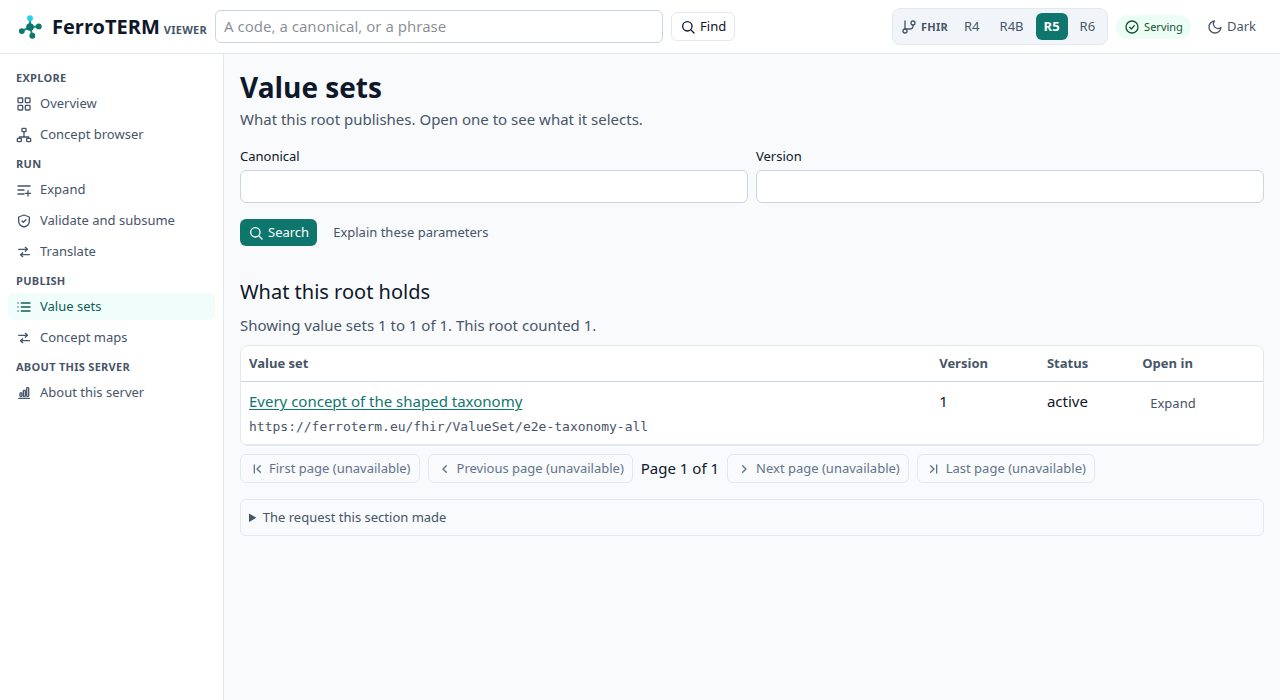
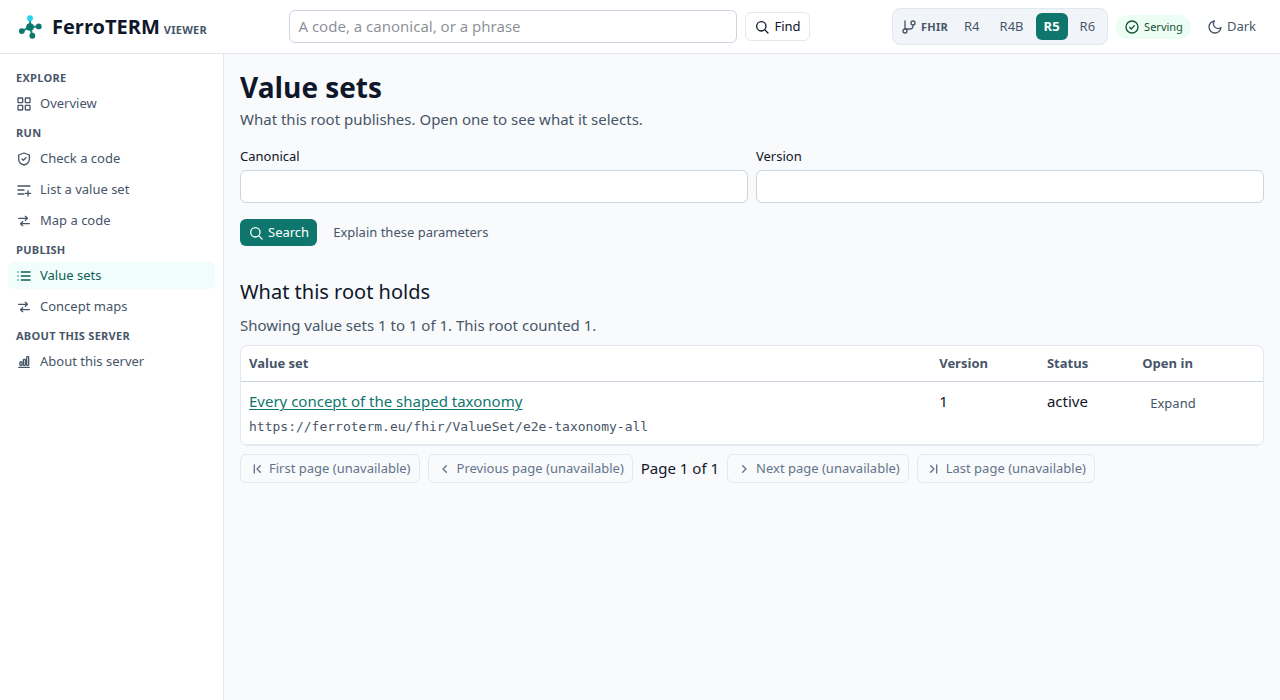
docs(viewer): the book's screenshots, re-captured after the redesign
Ten images, one per screen, taken in one run against the built bundle. They
carried the layout the redesign replaced: the cards, the request disclosures,
the accordion panes on About, and the runners with an empty canonical box.

The capture pass drives the pickers the way a reader does rather than typing a
canonical into the field behind the list, and it opens the About screen on the
tab it opens on rather than clicking a summary that no longer exists.

diff --git a/e2e/tests/it/docs_shots.rs b/e2e/tests/it/docs_shots.rs
@@ -103,8 +103,8 @@ const COMMAND_SUBMIT: &str = "form[role='search'] button[type='submit']";
 /// One offer the find screen made.
 const OFFER: &str = "section[aria-labelledby='find-offers-heading'] li a";
 
-/// The expansion runner's canonical control.
-const EXPAND_URL: &str = "#expand-url";
+/// The expansion runner's value set control.
+const EXPAND_URL: &str = "expand-url";
 
 /// The expansion runner's submit control.
 ///
@@ -121,8 +121,8 @@ const EXPANDED_ROW: &str = "section[aria-labelledby='expansion-heading'] tbody t
 /// The concept maps this root holds, as the section a shot waits for.
 const CONCEPT_MAPS: &str = "section[aria-labelledby='conceptmaps-heading']";
 
-/// The translate runner's system control.
-const TRANSLATE_SYSTEM: &str = "#translate-system";
+/// The translate runner's code system control.
+const TRANSLATE_SYSTEM: &str = "translate-system";
 
 /// The translate runner's code control.
 const TRANSLATE_CODE: &str = "#translate-code";
@@ -137,7 +137,7 @@ const TRANSLATE_ANSWER: &str = "section[aria-labelledby='translate-answer-headin
 const TRANSLATED: &str = "The server translated the code.";
 
 /// The validate runner's code system control.
-const VALIDATE_SYSTEM: &str = "#validate-system";
+const VALIDATE_SYSTEM: &str = "validate-system";
 
 /// The validate runner's code control.
 const VALIDATE_CODE: &str = "#validate-code";
@@ -157,8 +157,8 @@ const SUBSUMES_SECTION: &str = "section[aria-labelledby='subsumes-heading']";
 /// The version comparison, once the four reads have filled it.
 const COMPARISON: &str = "section[aria-labelledby='comparison-heading']";
 
-/// The control that opens the About pane the comparison is in.
-const VERSIONS_PANE: &str = "#about-versions-heading > summary";
+/// The About screen's first tab, which is the one it opens on.
+const VERSIONS_TAB: &str = "nav[aria-label='About this server'] a[href='#about-versions-heading']";
 
 /// One of the comparison's two tables.
 const COMPARISON_TABLE: &str = "section[aria-labelledby='comparison-heading'] table";
@@ -367,11 +367,7 @@ async fn expansion_runner(
     canonical: &str,
 ) -> WebDriverResult<()> {
     journey.reopen(&address(base, "expand")).await;
-    journey
-        .element(By::Css(EXPAND_URL), "the runner's canonical control")
-        .await
-        .send_keys(canonical)
-        .await?;
+    pick(journey, EXPAND_URL, canonical).await?;
     journey
         .element(By::Css(EXPAND_SUBMIT), "the runner's submit control")
         .await
@@ -385,6 +381,21 @@ async fn expansion_runner(
         .await;
     shot(journey, &dir.join("expand.png")).await?;
     Ok(())
+}
+
+/// Names `canonical` in the picker of the control `field` draws.
+///
+/// A runner offers what this root publishes, so the capture picks the way a
+/// reader does rather than typing a canonical into the field behind the list.
+async fn pick(journey: &Journey, field: &str, canonical: &str) -> WebDriverResult<()> {
+    journey
+        .element(
+            By::Css(format!("#{field}-pick option[value='{canonical}']")),
+            &format!("the offer of {canonical} in {field}"),
+        )
+        .await
+        .click()
+        .await
 }
 
 /// The command bar, and what this root can do with a canonical.
@@ -428,14 +439,7 @@ async fn concept_maps(journey: &Journey, dir: &Path, base: &str) -> WebDriverRes
 /// what one map says.
 async fn translate(journey: &Journey, dir: &Path, base: &str, system: &str) -> WebDriverResult<()> {
     journey.reopen(&address(base, "translate")).await;
-    journey
-        .element(
-            By::Css(TRANSLATE_SYSTEM),
-            "the runner's code system control",
-        )
-        .await
-        .send_keys(system)
-        .await?;
+    pick(journey, TRANSLATE_SYSTEM, system).await?;
     journey
         .element(By::Css(TRANSLATE_CODE), "the runner's code control")
         .await
@@ -471,11 +475,7 @@ async fn validate_runner(
     system: &str,
 ) -> WebDriverResult<()> {
     journey.reopen(&address(base, "validate")).await;
-    journey
-        .element(By::Css(VALIDATE_SYSTEM), "the runner's code system control")
-        .await
-        .send_keys(system)
-        .await?;
+    pick(journey, VALIDATE_SYSTEM, system).await?;
     journey
         .element(By::Css(VALIDATE_CODE), "the runner's code control")
         .await
@@ -504,16 +504,11 @@ async fn validate_runner(
 /// browser remembers. One screen, so one shot.
 async fn about(journey: &Journey, dir: &Path, base: &str) -> WebDriverResult<()> {
     journey.reopen(&address(base, "about")).await;
-    // The panes are closed until a reader opens one, so the shot opens the
-    // first: an image of three closed rows shows the shape and nothing else.
+    // The screen opens on its first tab, and the shot is of that tab with its
+    // comparison drawn rather than of the strip alone.
     journey
-        .element(
-            By::Css(VERSIONS_PANE),
-            "the control that opens the first pane",
-        )
-        .await
-        .click()
-        .await?;
+        .element(By::Css(VERSIONS_TAB), "the tab the comparison is on")
+        .await;
     journey
         .element(By::Css(COMPARISON), "the comparison the four reads fill")
         .await;
